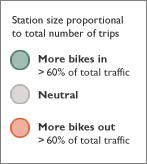
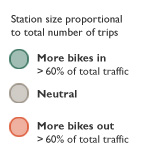
updated legend and position, neutral color to be less brown per Kim's suggestion and made the hour selected in white.

diff --git a/sass/viz.scss b/sass/viz.scss
@@ -5,9 +5,9 @@
 $positive-color : #2c826b;//36ac9c;
 $negative-color : #df6342;//#8B2A2F;//F65650; //f9a72b;
 $highlighted-color: #fddf24;
-$selected-color: #dad3ad; // #c7bb79;//#d9c702;
+$selected-color: #ffffff;// #dad3ad; // #c7bb79;//#d9c702;
 $border-radius: 20px;
-$neutral-color: #6f5d4d;// #9b8978; //#b4aca8;//c7bb79;
+$neutral-color: #a1988d;// ##6f5d4d;// #9b8978; //#b4aca8;//c7bb79;
 
 /* Constants that CSS could calculate, but we hard-code so Leaflet can work */
 $panel-header-height: 30px;
@@ -15,7 +15,7 @@ $panel-footer-height: 20px;
 $panel-content-height: 390px;
 $panel-height: $panel-header-height + $panel-footer-height + $panel-content-height + 8px; /* No idea where the 10px comes from */
 
-$map-legend-height: 180px + 1px; // the height of the png legend
+$map-legend-height: 162px + 1px; // the height of the png legend
 /* Easier to measure things with this */
 body,div,span,header,footer,h1,h2,h3,h4 {
     @include box-sizing(border-box);
@@ -175,7 +175,7 @@ body,div,span,header,footer,h1,h2,h3,h4 {
             stroke: $negative-color;
         }
         .area {
-            opacity: 0.25;
+            opacity: 0.30;
         }
         .area.arrivals{
             fill: $positive-color;  

diff --git a/stylesheets/viz.css b/stylesheets/viz.css
@@ -103,7 +103,7 @@ body, div, span, header, footer, h1, h2, h3, h4 {
 #map-panel #map-legend {
   position: relative;
   left: -1px;
-  top: -181px;
+  top: -163px;
   border: 1px solid black;
 }
 
@@ -149,7 +149,7 @@ body, div, span, header, footer, h1, h2, h3, h4 {
 #hour-controls .hour.selected {
   border: 2px solid black;
   margin: -5px;
-  background-color: #dad3ad;
+  background-color: white;
   fill-opacity: 0.5;
 }
 
@@ -190,7 +190,7 @@ body, div, span, header, footer, h1, h2, h3, h4 {
 }
 /* line 177, ../sass/viz.scss */
 #station-chart-panel #station-chart .area {
-  opacity: 0.25;
+  opacity: 0.30;
 }
 /* line 180, ../sass/viz.scss */
 #station-chart-panel #station-chart .area.arrivals {
@@ -253,7 +253,7 @@ body, div, span, header, footer, h1, h2, h3, h4 {
 }
 /* line 225, ../sass/viz.scss */
 #accumulation-chart-container #accumulation-chart .bar.neutral {
-  fill: #6f5d4d;
+  fill: #a1988d;
 }
 /* line 226, ../sass/viz.scss */
 #accumulation-chart-container #accumulation-chart .bar.highlighted {

diff --git a/viz.js b/viz.js
@@ -2,7 +2,7 @@
 /* Colors found in sass/viz.scss but if there's a clever way to automate extraction */
 var positive_color = '#2c826b';//36ac9c';
 var negative_color = '#df6342'//'#8B2A2F';//f9a72b';
-var neutral_color = '#9b8978';// #6f5d4d';//'#c9baad';//'#b4aca8';//c7bb79';
+var neutral_color = '#a1988d';'#9b8978';// #6f5d4d';//'#c9baad';//'#b4aca8';//c7bb79';
 // by hand darkend in the gimp '#c0c29d';
 
 //With 25% opacity the mix is this: "#d1d3b1";//"#ac9faa"
